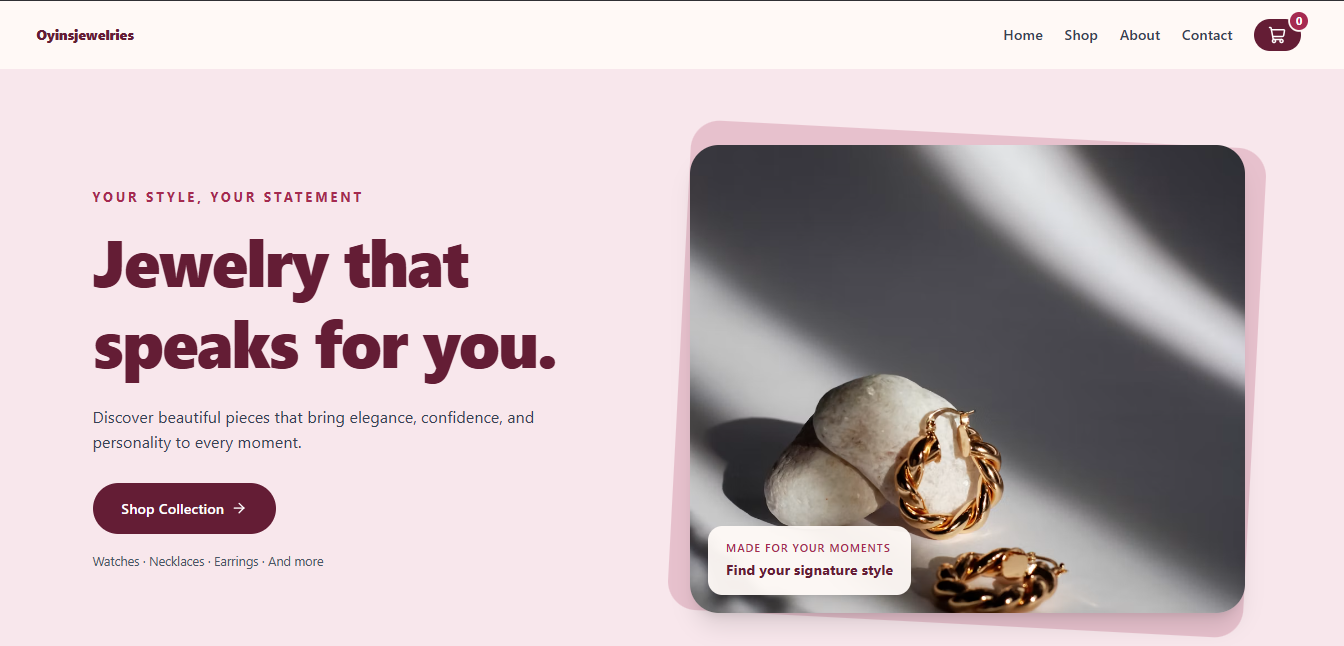
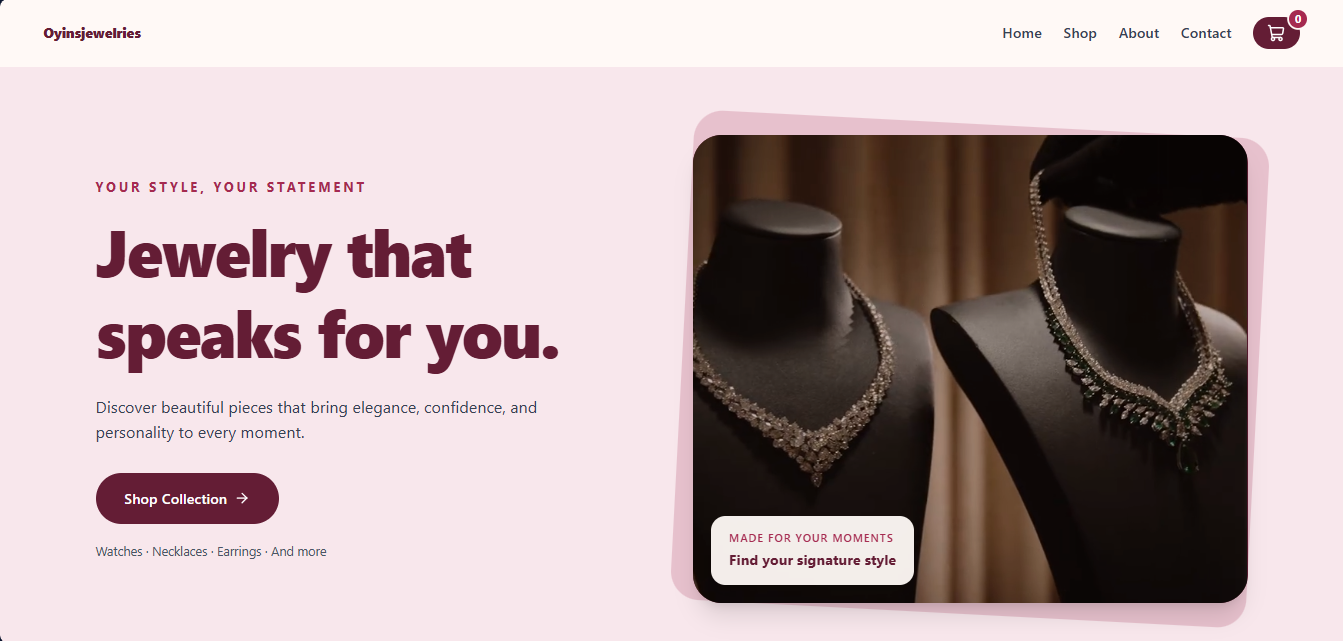
update a project description

diff --git a/src/data/projects.js b/src/data/projects.js
@@ -7,8 +7,18 @@ import YoutubeImage from "../assets/images/Youtube-image.jpeg"
 import OyinjewelryImage from "../assets/images/oyin-website.png"
 
 const projects = [
-  {
+
+   {
     id: 1,
+    title: "Oyinsjewelries (E-commerce Website)",
+    description:
+      " Oyinsjewelries is a responsive jewellery e-commerce website developed using React, Vite, and Tailwind CSS, with Supabase powering the backend. The platform features product categorisation, shopping cart functionality, admin authentication, product management, image uploads, stock tracking, and WhatsApp checkout, enabling the client to manage products and connect with customers seamlessly..",
+    image:OyinjewelryImage,
+    technologies: ["React", "Tailwind CSS", "vite" ,"Supabase","Lucid React", "React Router"],
+    liveUrl: "https://oyinsjewelries.vercel.app/",
+  },
+  {
+    id: 2,
     title: "June Website (Team Work)",
     description:
       "June is a cloud-native platform that acts as the invisible CTO for Africa's businesses. It provides ready-made APIs, plug-and-play modules, and enterprise-grade security to help businesses launch and scale confidently without rebuilding core infrastructure.",
@@ -19,7 +29,7 @@ const projects = [
   },
 
   {
-    id: 2,
+    id: 3,
     title: "Everstream Solutions",
     description:
       "Everstream Solutions provides comprehensive property care and visual media services designed to enhance your property's value and appeal. With our team of professionals, we deliver quality, affordable, and reliability to homeowners and business alike.",
@@ -30,7 +40,7 @@ const projects = [
   },
 
   {
-    id: 3,
+    id: 4,
     title: "Musais Technology",
     description:
       "A comprehensive digital solutions project delivering web design, product design, pitch decks, MVP development, web engineering, software development, and marketing collateral. From concept to execution, the project provides end-to-end creative and technical solutions designed to help businesses build, launch, and grow their digital presence.",
@@ -41,7 +51,7 @@ const projects = [
   },
 
   {
-    id: 4,
+    id: 5,
     title: "EED Fashion Website",
     description:
       "A basic fashion website project created to practice and test my foundational HTML skills. The project focused on building and structuring a functional website layout, including navigation, content sections, images, and styling elements. It served as an opportunity to apply core HTML concepts and gain hands-on experience in creating a real-world website.",
@@ -52,7 +62,7 @@ const projects = [
   },
 
   {
-    id: 5,
+    id: 6,
     title: "Pinwheel Website",
     description:
       "A website clone built to test and strengthen my front-end development skills using HTML, CSS, and JavaScript. This project focuses on recreating a modern web interface while improving my understanding of layout design, styling, responsiveness, and JavaScript functionality.",
@@ -63,7 +73,7 @@ const projects = [
   },
 
   {
-    id: 6,
+    id: 7,
     title: "Youtube Clone",
     description:
       "A website clone built to test and strengthen my front-end development skills using HTML, CSS, and JavaScript. This project focuses on recreating a modern web interface while improving my understanding of layout design, styling, responsiveness, and JavaScript functionality.",
@@ -73,15 +83,6 @@ const projects = [
     githubUrl: "https://github.com/codalee123/Youtube-clone",
   },
 
-  {
-    id: 7,
-    title: "Oyinjewelries",
-    description:
-      "Oyinsjewelries is a responsive jewelry e-commerce website built with React, Tailwind CSS, and Vite. It allows customers to browse jewelry collections, filter products by category, manage their shopping cart, and place orders directly through WhatsApp.",
-    image:OyinjewelryImage,
-    technologies: ["React", "Tailwind CSS", "vite"],
-    liveUrl: "https://oyinsjewelries.vercel.app/",
-  },
 ];
 
 export default projects;
